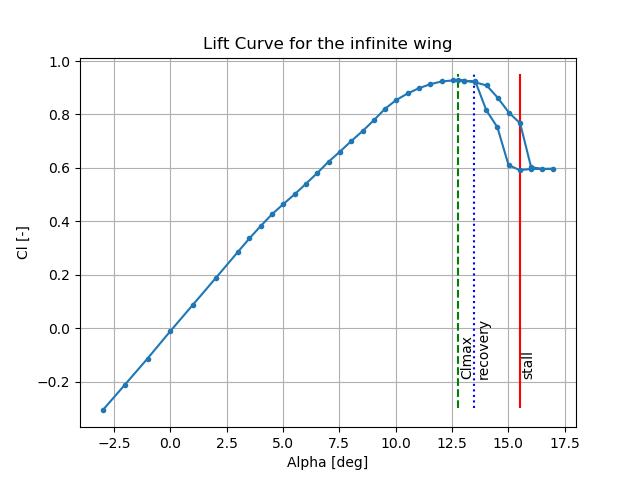
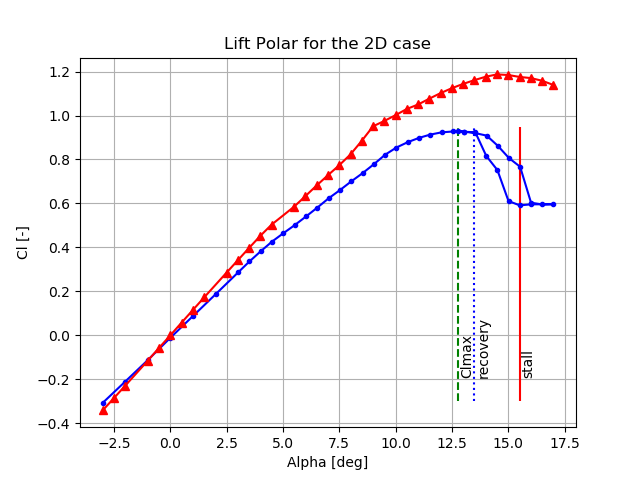
plotting scripts, test data, polars and pressure distributions update 2

diff --git a/main3d.py b/main3d.py
@@ -3,54 +3,92 @@ from matplotlib import pyplot as plt
 
 loc1 = "corr_test3d.xlsx"
 loc2 = "corr_test2d.xlsx"
+loc3 = "xfoil_results.xlsx"
+loc4 = "xflr_results.xlsx"
 
 
 wb1 = xlrd.open_workbook(loc1)
 wb2 = xlrd.open_workbook(loc2)
+wb3 = xlrd.open_workbook(loc3)
+wb4 = xlrd.open_workbook(loc4)
 
 
 sheet1 = wb1.sheet_by_index(0)
 sheet2 = wb2.sheet_by_index(0)
-
+sheet3 = wb3.sheet_by_index(0)
+sheet4 = wb4.sheet_by_index(0)
 
 # define data sets
-Alpha = []
-CL= []
-CD = []
+Alpha1 = []
+CL1= []
+CD1 = []
+CM1 = []
 
-alpha = []
-Cl = []
-Cd = []
+Alpha2 = []
+CL2= []
+CD2 = []
+CM2 = []
+
+alpha1 = []
+Cl1 = []
+Cd1 = []
+Cm1 = []
+
+alpha2 = []
+Cl2 = []
+Cd2 = []
+Cm2 = []
+
 
 
 for i in range(2,47): # importing data from excel file
 
-    Alpha.append(sheet1.cell_value(i,1))
-    CL.append(sheet1.cell_value(i, 3))
-    CD.append(sheet1.cell_value(i, 4))
+    Alpha1.append(sheet1.cell_value(i,1))
+    CL1.append(sheet1.cell_value(i, 3))
+    CD1.append(sheet1.cell_value(i, 4))
+    CM1.append(sheet1.cell_value(i,11))
 
 
 for j in range(2,45):
-    alpha.append(sheet2.cell_value(j,1))
-    Cl.append(sheet2.cell_value(j,3))
-    Cd.append(sheet2.cell_value(j,2))
 
-print(Alpha, CL, CD)
-print(alpha, Cl, Cd)
+    alpha1.append(sheet2.cell_value(j,1))
+    Cl1.append(sheet2.cell_value(j,3))
+    Cd1.append(sheet2.cell_value(j,2))
+    Cm1.append(sheet2.cell_value(j,4))
 
-CLcut = CL[0:36]
-CDcut = CD[0:36]
+for k in range(8,44):
 
-Clcut = Cl[0:30]
-Cdcut = Cd[0:30]
+    Alpha2.append(sheet4.cell_value(k, 0))
+    CL2.append(sheet4.cell_value(k, 1))
+    CD2.append(sheet4.cell_value(k, 4))
+    CM2.append(sheet4.cell_value(k, 6))
+
+for p in range(11,49):
+
+    alpha2.append(sheet3.cell_value(p, 0))
+    Cl2.append(sheet3.cell_value(p, 1))
+    Cd2.append(sheet3.cell_value(p, 2))
+    Cm2.append(sheet3.cell_value(p, 4))
+
+print(Alpha1, CL1, CD1)
+print(alpha1, Cl1, Cd1)
+print(Alpha2, CL2, CD2)
+print(alpha2, Cl2, Cd2)
+
+CLcut1 = CL1[0:36]
+CDcut1 = CD1[0:36]
+
+Clcut1 = Cl1[0:29]
+Cdcut1 = Cd1[0:29]
 
 
 # Lift Polar of a finite wing
 
-plt.plot(Alpha, CL, marker='.')
+plt.plot(Alpha1, CL1, marker='.', color='b')
+plt.plot(Alpha2, CL2, marker='^', color='r')
 plt.xlabel("Alpha [deg]")
 plt.ylabel("Cl [-]")
-plt.title("Lift Curve for the finite wing")
+plt.title("Lift Polar for the 3D case")
 plt.grid()
 
 plt.vlines(16, -0.25, 0.9, colors='r')
@@ -64,23 +102,60 @@ plt.text(14.1, -0.18, "recovery", rotation=90)
 plt.savefig("liftcurve3d.png")
 plt.show()
 
+# Moment polar for a finite wing
+
+plt.plot(Alpha1, CM1, marker='.', color='b')
+plt.plot(Alpha2, CM2, marker='^', color='r')
+plt.xlabel("Alpha [deg]")
+plt.ylabel("Cm [-]")
+plt.title("Moment Polar for the 3D case")
+plt.grid()
+
+plt.savefig("momentpolar3d.png")
+plt.show()
+
 # Drag polar for a finite wing
 
-plt.plot(CDcut, CLcut, marker='.')
+plt.plot(CDcut1, CLcut1, marker='.', color='b')
+plt.plot(CD2, CL2, marker='^', color='r')
 plt.xlabel("Cd [-]")
 plt.ylabel("Cl [-]")
-plt.title("Drag polar for the finite wing")
+plt.title("Drag Polar for the 3D case")
 plt.grid()
 
 plt.savefig("dragpolar3d.png")
 plt.show()
 
+# Drag curve for a finite wing
+
+plt.plot(Alpha1, CD1, marker='.', color='b')
+plt.plot(Alpha2, CD2, marker='^', color='r')
+plt.xlabel("Alpha [deg]")
+plt.ylabel("CD [-]")
+plt.title("Drag curve for the 3D case")
+plt.grid()
+
+plt.vlines(16, 0, 0.25, colors='r')
+plt.text(16.1, 0.01,"stall", rotation=90)
+
+plt.vlines(15.5, 0, 0.25, colors='g', linestyles='dashed')
+plt.text(14.85, 0.01, "Clmax", rotation=90)
+
+plt.vlines(14, 0, 0.25, colors='b', linestyles='dotted')
+plt.text(14.1, 0.01, "recovery", rotation=90)
+
+plt.savefig("dragcurve3d.png")
+plt.show()
+
+
+
 # Lift Polar of a infinite wing
 
-plt.plot(alpha, Cl, marker='.')
+plt.plot(alpha1, Cl1, marker='.', color='b')
+plt.plot(alpha2, Cl2, marker='^', color='r')
 plt.xlabel("Alpha [deg]")
 plt.ylabel("Cl [-]")
-plt.title("Lift Curve for the infinite wing")
+plt.title("Lift Polar for the 2D case")
 plt.grid()
 
 plt.vlines(15.5, -0.3, 0.95, colors='r')
@@ -94,13 +169,46 @@ plt.text(13.6, -0.18, "recovery", rotation=90)
 plt.savefig("liftcurve2d.png")
 plt.show()
 
+# Drag curve for the 2D case
+
+plt.plot(alpha1, Cd1, marker='.', color='b')
+plt.plot(alpha2, Cd2, marker='^', color='b')
+plt.xlabel("Alpha [deg]")
+plt.ylabel("Cd [-]")
+plt.title("Drag Curve for the 2D case")
+plt.grid()
+
+plt.vlines(15.5, -0.02, 0.35, colors='r')
+plt.text(15.6, -0.02,"stall", rotation=90)
+
+plt.vlines(12.75, -0.02, 0.35, colors='g', linestyles='dashed')
+plt.text(12.85, -0.02, "Clmax", rotation=90)
+
+plt.vlines(13.5, -0.02, 0.35, colors='b', linestyles='dotted')
+plt.text(13.6, -0.02, "recovery", rotation=90)
+plt.savefig("dragcurve2d.png")
+plt.show()
+
 # Drag polar for a finite wing
 
-plt.plot(Cdcut, Clcut, marker='.')
+plt.plot(Cdcut1, Clcut1, marker='.', color='b')
+plt.plot(Cd2, Cl2, marker='^', color='r')
 plt.xlabel("Cd [-]")
 plt.ylabel("Cl [-]")
-plt.title("Drag polar for the infinite wing")
+plt.title("Drag Polar for the 2D case")
 plt.grid()
 
 plt.savefig("dragpolar2d.png")
+plt.show()
+
+# Moment polar for a finite wing
+
+plt.plot(alpha1, Cm1, marker='.', color='b')
+plt.plot(alpha2, Cm2, marker='^', color='r')
+plt.xlabel("alpha [deg]")
+plt.ylabel("Cm [-]")
+plt.title("Moment Polar for the 2D case")
+plt.grid()
+
+plt.savefig("momentpolar2d.png")
 plt.show()
